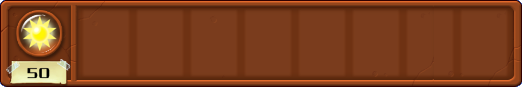
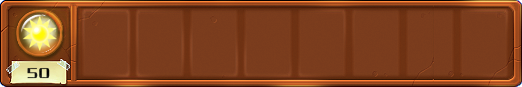
inventory background

diff --git a/Inventory.h b/Inventory.h
@@ -40,7 +40,7 @@ private:
 public:
 	Inventory(Texture& tex) {
 		inventorySprite.setTexture(tex);
-		inventorySprite.setPosition(60, 0);
+		inventorySprite.setPosition(60, 2);
 		inventorySprite.setScale(1.15, 1.15);
 	}
 
